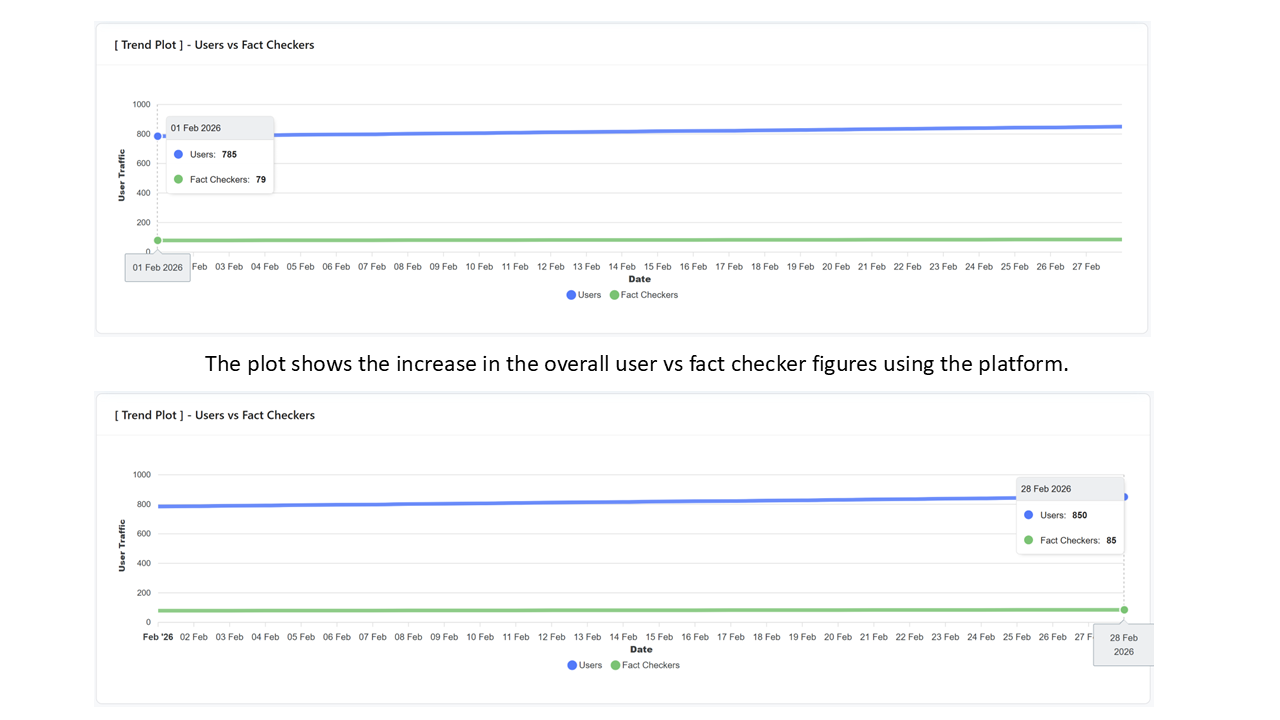
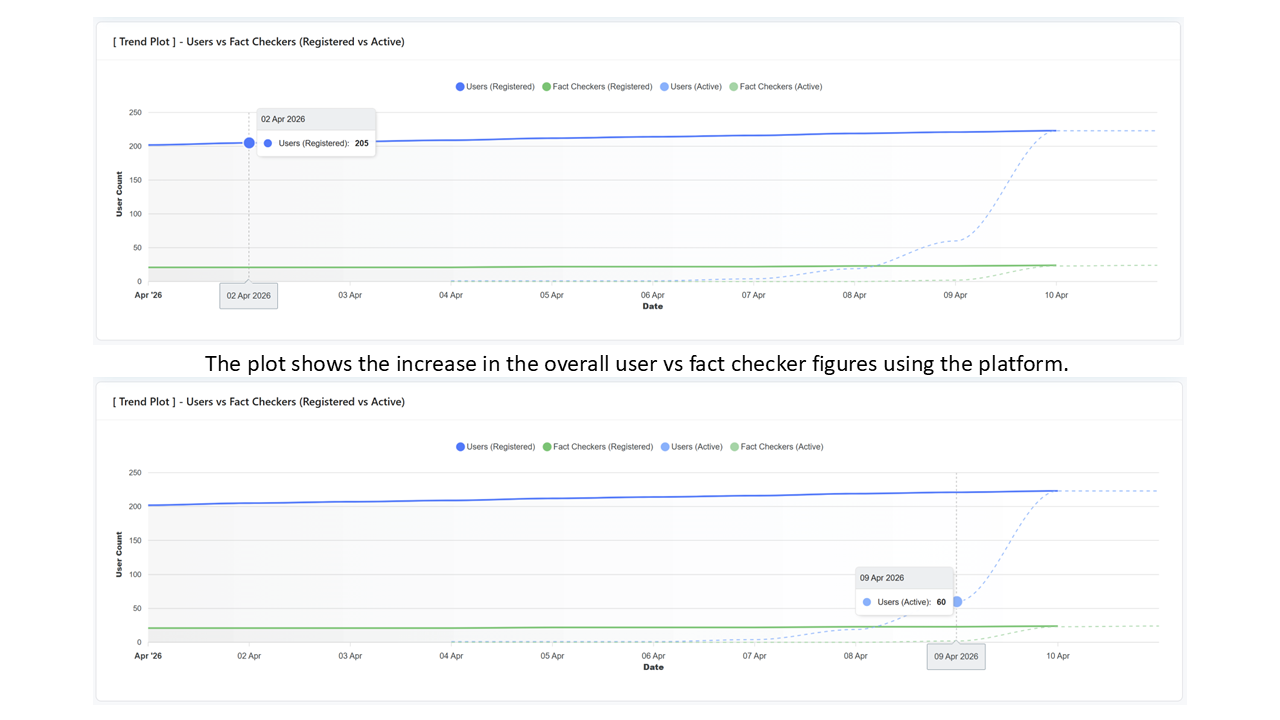
additional changes done

diff --git a/PT/FNMA.html b/PT/FNMA.html
@@ -371,13 +371,15 @@
 		   ═══════════════════════════════════════════════ */
 
 		:root {
-			--accent: #4A89DC;
-			--accent-mid: #7aaee8;
-			--accent-light: #eef4fd;
-			--text: #1a1a2e;
-			--muted: #64748b;
-			--border: #d6e4f5;
-			--bg: #ffffff;
+			--heading:      #37BC9B;
+			--heading-mid:  #2aa585;
+			--link:         #4A89DC;
+			--link-hover:   #2e6dbf;
+			--accent-light: #edfaf6;
+			--text:         #1a1a2e;
+			--muted:        #64748b;
+			--border:       #cce8e0;
+			--bg:           #ffffff;
 		}
 
 		html {
@@ -400,9 +402,9 @@
 			font-family: 'Inter', system-ui, sans-serif;
 			font-size: 2rem;
 			font-weight: 700;
-			color: var(--accent);
+			color: var(--heading);
 			line-height: 1.3;
-			border-bottom: 3px solid var(--accent);
+			border-bottom: 3px solid var(--heading);
 			border-bottom-style: solid;
 			padding-bottom: 16px;
 			margin-bottom: 0;
@@ -420,8 +422,8 @@
 			font-family: 'Inter', system-ui, sans-serif;
 			font-size: 1.2rem;
 			font-weight: 700;
-			color: var(--accent);
-			border-left: 5px solid var(--accent);
+			color: var(--heading);
+			border-left: 5px solid var(--heading);
 			border-left-style: solid;
 			padding-left: 14px;
 			margin-top: 3rem;
@@ -433,7 +435,7 @@
 			font-family: 'Inter', system-ui, sans-serif;
 			font-size: 1.02rem;
 			font-weight: 600;
-			color: var(--accent-mid);
+			color: var(--heading-mid);
 			margin-top: 2rem;
 			margin-bottom: 0.5rem;
 		}
@@ -441,7 +443,7 @@
 		/* ── Table of Contents Block ── */
 		hr+h2+ul {
 			background: var(--accent-light);
-			border-left: 5px solid var(--accent);
+			border-left: 5px solid var(--heading);
 			border-left-style: solid;
 			border-radius: 0 8px 8px 0;
 			padding: 16px 28px 16px 28px;
@@ -460,12 +462,12 @@
 
 		/* ── Links ── */
 		a {
-			color: var(--accent-mid);
+			color: var(--link);
 			transition: color 0.15s;
 		}
 
 		a:hover {
-			color: var(--accent);
+			color: var(--link-hover);
 			text-decoration: underline;
 		}
 
@@ -478,7 +480,7 @@
 
 		/* ── Blockquote ── */
 		blockquote {
-			border-left: 4px solid var(--accent-mid);
+			border-left: 4px solid var(--heading-mid);
 			border-left-style: solid;
 			background: var(--accent-light);
 			padding: 12px 20px;
